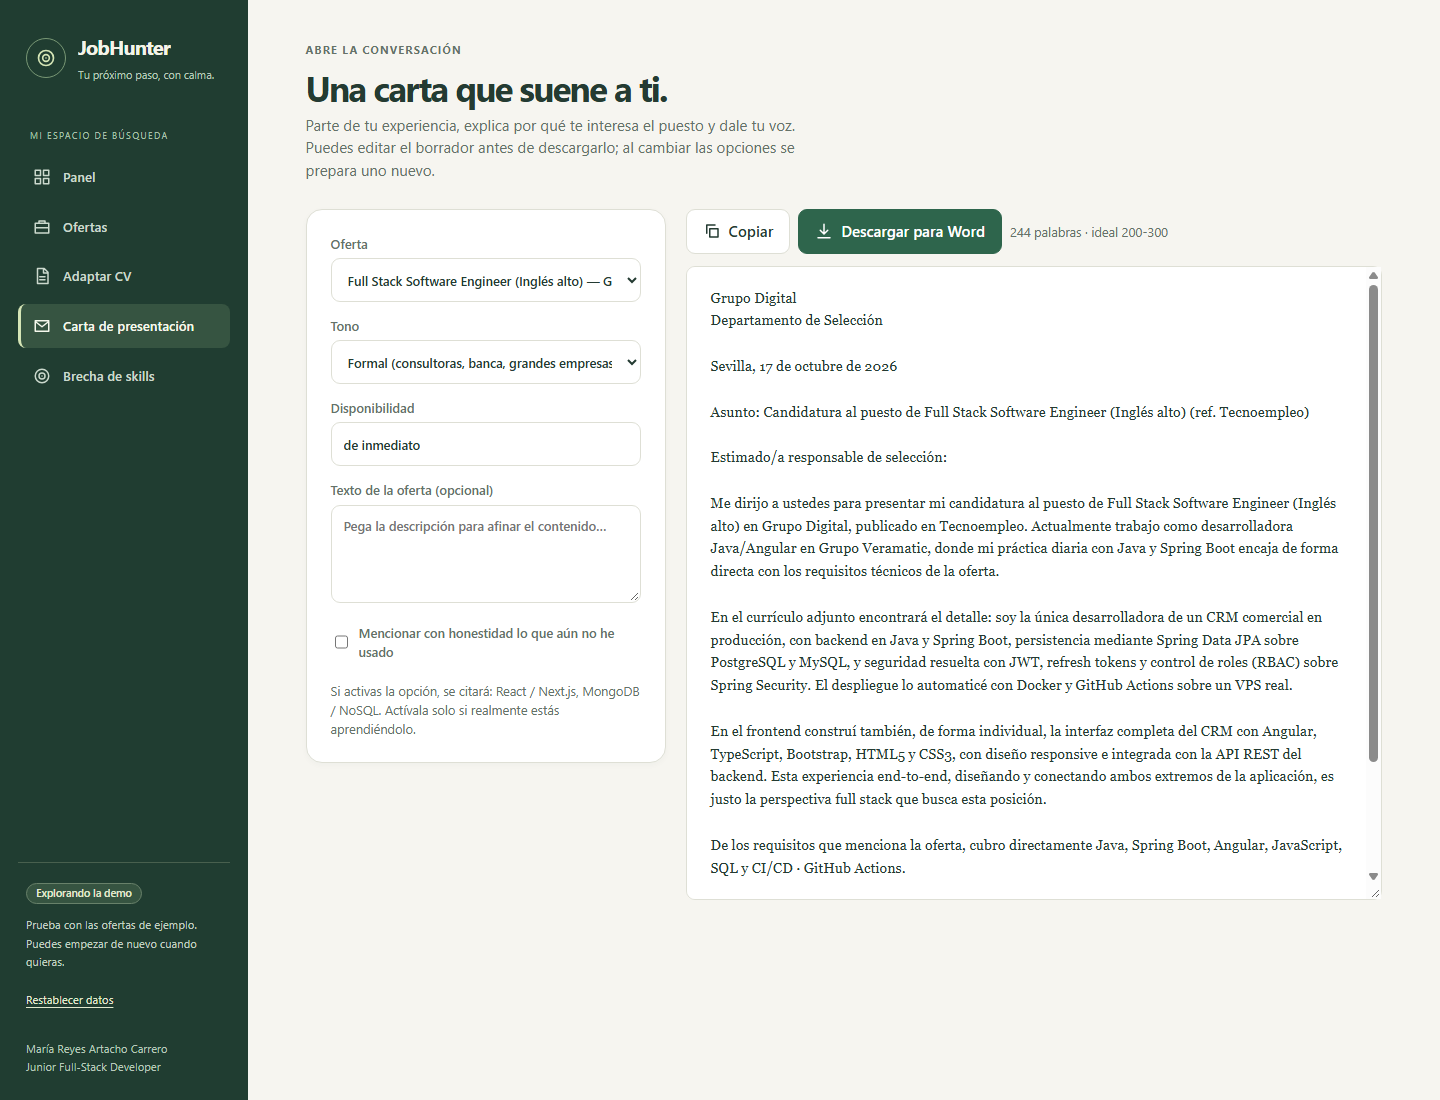
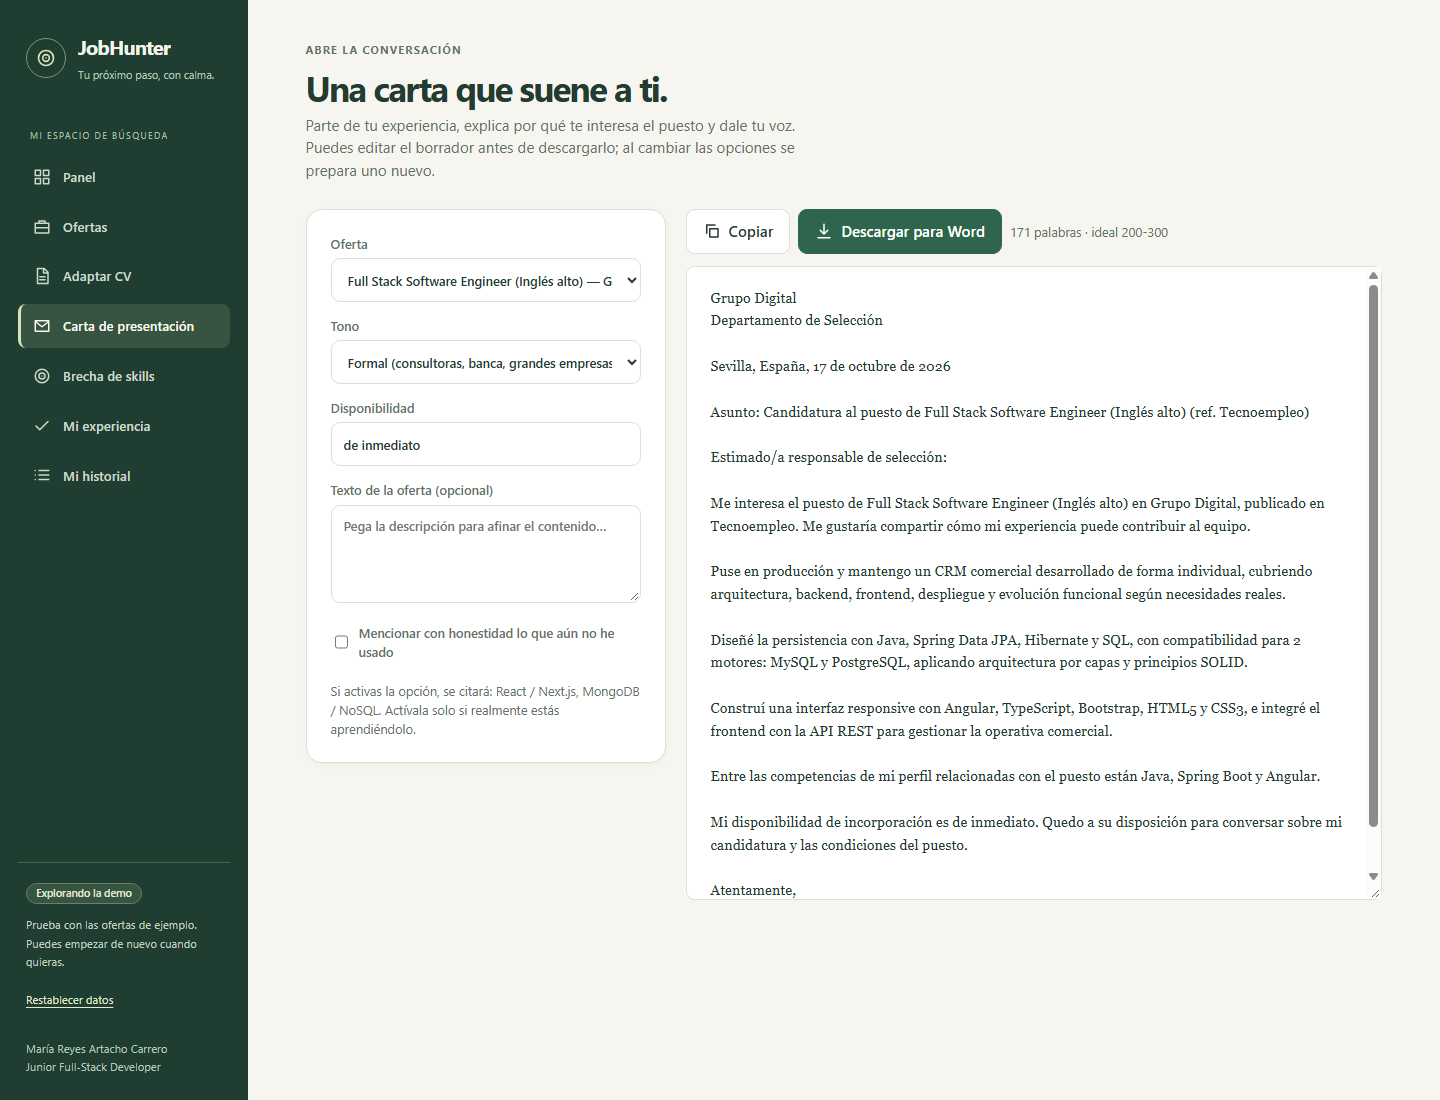
docs: explain career workflows and refresh frontend screenshots
Document matching calculations, evidence and learning rules, local storage and backup limits, and the distinction between recording and submitting an application. Update the README and seven screenshots, including the new evidence and history views.

diff --git a/docs/EVIDENCE_BASED_SEARCH.md b/docs/EVIDENCE_BASED_SEARCH.md
@@ -1,0 +1,70 @@
+# Evidence-based job search
+
+JobScout connects offer requirements, candidate evidence, learning progress, and application records.
+These workflows run in the browser and work with both API-backed offers and the static demo.
+
+## Explainable matching
+
+Open **Adaptar CV** and expand **Revisar y corregir el análisis**. Each recognized technology
+shows its original source, its weight, the candidate level, and supporting profile statements or
+user-supplied evidence. You can change whether a requirement is mandatory, desirable, mentioned,
+or irrelevant, and restore the original detection. Corrections are scoped to the offer and data mode.
+
+Technical coverage uses mandatory = 3, desirable = 1, and unclassified text = 1.5. English has a
+special weight of 0.5. A declared skill counts fully, a partial skill counts half, and a gap counts zero.
+No recognized requirements means zero coverage, not a perfect match. Unrecognized requirements
+are outside the calculation. This is neither an ATS score nor a probability of an interview.
+
+The search rubric score remains separate from technical coverage. Experience, location, remote
+preferences, and senior role titles produce review warnings; they do not change coverage or discard
+offers automatically. The experience filter in Offers is opt-in. Parsing is heuristic: verify the original
+posting, particularly alternatives, negation, remote restrictions, and unusual experience wording.
+
+## Evidence and learning
+
+**Mi experiencia** lets you set preferences, attach a project, achievement, or certificate to a
+technology, and review competency levels. Evidence requires a title and explanation; an optional
+link must use HTTP or HTTPS without embedded credentials. Evidence is self-reported, not externally verified.
+Existing profile statements remain clearly distinguishable from separately attached evidence.
+
+**Brecha de skills** ranks practice suggestions using demand and the number of offers where a
+technology is the only missing mandatory technical requirement. Related offers are linked directly.
+Practice states are independent of competency levels. Completing a practice never automatically
+adds skills to the CV. Explicit confirmation and an attached evidence item are required.
+
+Confirmed evidence contributes its own statements and skill names to CV tailoring. Removing the
+last attached evidence downgrades the manually confirmed skill to partial. Correcting a competency
+to partial or missing removes contradictory tagged profile achievements from generated content.
+The dashboard, learning page, CV, and cover letter use the same reviewed profile levels.
+
+## Application records
+
+From **Adaptar CV**, save a draft or register an application you have already sent. Registering an
+application does not submit it to an employer. A pending offer moves to Applied only after the gateway
+accepts the change. Existing later-stage statuses are preserved. A registered application gets a date
+and a suggested follow-up date seven days later; future and impossible dates are rejected.
+
+**Mi historial** displays snapshots and status transitions recorded after this feature is enabled.
+Snapshots freeze the edited CV text and generated Word-compatible HTML at save time. Later edits do
+not alter older versions. The UI renders archived text as text and offers a plain-text download;
+imported HTML is never rendered or executed. The backup preserves the generated HTML as data.
+
+Counts describe recorded activity, not causal evidence that one CV performs better. An offer's latest
+status may correspond to several CV versions. Follow-up dates are reminders to review the response,
+not scheduled messages or email notifications.
+
+## Storage, backup, and limits
+
+The workspace is local to one browser/origin and assumes one candidate. It is not synchronized to the
+backend or between devices, even when offers come from the API. Offer-specific corrections, events,
+and snapshots distinguish demo from API data. Skills and preferences belong to the candidate workspace.
+Resetting demo offers does not delete evidence or application archives.
+
+Export a JSON backup from **Mi experiencia**. Restoring requires an explicit replacement confirmation,
+validates the full payload before changing current data, and rejects unsafe evidence links. Backups can
+contain personal information and full CVs. Store them privately. Browser storage failures show an alert;
+the current in-memory workspace remains exportable.
+
+Limits: 1,000 evidence items, 300 CV snapshots, 1,000 offer correction maps, a 10 MB import file, and
+5,000 recent status transitions. Browser storage quotas can be lower. No server-side multi-user account
+or cloud synchronization is provided by this feature.

diff --git a/README.md b/README.md
@@ -34,7 +34,21 @@ The frontend exports Word-compatible HTML and supports PDF output through the br
     <td><img src="docs/screenshots/carta.png" alt="Cover letter editor"></td>
     <td><img src="docs/screenshots/skills.png" alt="Skills gap analysis"></td>
   </tr>
+  <tr>
+    <td><img src="docs/screenshots/evidencias.png" alt="Competency evidence and preferences"></td>
+    <td><img src="docs/screenshots/historial.png" alt="CV versions and application history"></td>
+  </tr>
 </table>
+
+## Evidence-based job search
+
+- Inspect requirement sources and weights, correct their classification, and distinguish technical coverage from interview probability.
+- Attach projects, achievements, and certificates to skills. Confirm new competencies explicitly before including them in the CV.
+- Track learning progress against the offers that need each skill, with links to the relevant opportunities.
+- Review experience, seniority, location, and remote-work warnings separately from the technical score.
+- Save CV versions, register applications, review seven-day follow-up dates, and retain a local status history.
+
+The career workspace is stored in your browser, including when offers come from the API. Export or restore a JSON backup from **Mi experiencia** to retain it across devices. See the [workflow and limitations](docs/EVIDENCE_BASED_SEARCH.md).
 
 ## Technology stack
 
@@ -127,7 +141,7 @@ npm test -- --watch=false --browsers=ChromeHeadless
 npm run build
 ```
 
-Latest local validation: **81 backend tests passed, 67 automation tests passed, and 51 frontend tests passed**. One additional backend test was skipped because creating symbolic links requires privileges on the Windows test machine. Backend coverage was **93.06%**. Linting, formatting, type checks, Bandit, and the production frontend build also passed.
+Latest local validation: **81 backend tests passed, 78 automation tests passed, and 70 frontend tests passed**. One additional backend test was skipped because creating symbolic links requires privileges on the Windows test machine. Backend coverage was **93.06%**. Linting, formatting, type checks, Bandit, and the production frontend build also passed.
 
 GitHub Actions is configured to run quality checks, dependency audits, secret scanning, and CodeQL analysis. See [CONTRIBUTING.md](CONTRIBUTING.md) for local commit hooks and contribution conventions.
 

diff --git a/docs/ARCHITECTURE.md b/docs/ARCHITECTURE.md
@@ -98,3 +98,14 @@ Se programa con el Programador de tareas de Windows (`tarea_busqueda_ofertas.xml
 
 CI en GitHub Actions: `ci.yml` (todo lo anterior), `security.yml` (pip-audit, npm audit, gitleaks, semanal),
 `codeql.yml` y `pages.yml` (demo). Dependabot semanal. Detalle de la seguridad en [SECURITY.md](SECURITY.md).
+
+## Evidence-based search workspace
+
+The frontend adds a local career workspace: `core/career.ts` contains matching, evidence, preference,
+and date rules; `career-validation.ts` validates stored and imported data; `career.service.ts` owns
+persistence and immutable CV snapshots. `MatchReview` explains and corrects requirement origins.
+The profile, learning, CV, cover letter, dashboard, and application-history views share these rules.
+`OfferStore` records a status transition only after the active gateway accepts it.
+
+This workspace is browser-local and is not stored in SQLite or synchronized to the API. Demo and API
+offer records have distinct keys. See [workflow, calculations, and limits](EVIDENCE_BASED_SEARCH.md).

diff --git a/frontend/README.md b/frontend/README.md
@@ -6,7 +6,7 @@ Angular 20 con componentes standalone, signals y carga diferida por ruta. Ver [d
 npm ci
 npm start                                                    # http://localhost:4200 · /api → localhost:8000
 npm run build                                                # dist/job-hunter/browser
-npx ng test --watch=false --browsers=ChromeHeadless          # 51 pruebas (necesita Chrome)
+npx ng test --watch=false --browsers=ChromeHeadless          # 70 pruebas (necesita Chrome)
 npx ng lint                                                  # ESLint con reglas de código limpio y seguridad
 ```
 
